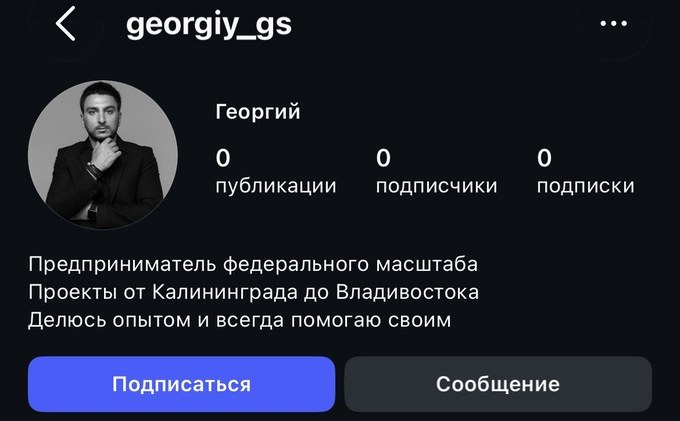
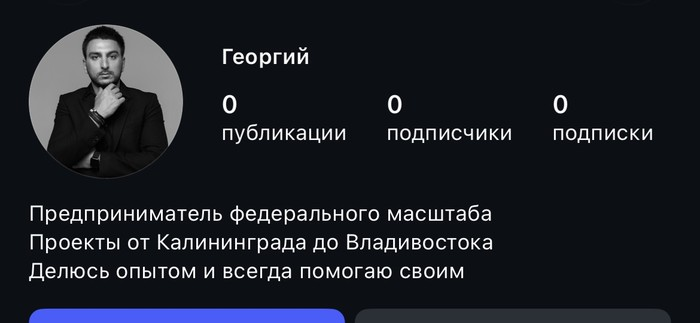
Лесенка роста: целые шапки профиля, 15 ступеней вместо 8

diff --git a/index.html b/index.html
@@ -87,11 +87,12 @@ section.deep{background:var(--deep)}
 .shots figcaption{color:var(--dim);font-size:12px;text-align:center;margin-top:auto;padding-top:10px;letter-spacing:.02em}
 
 /* ladder */
-.ladder{display:grid;grid-template-columns:repeat(4,1fr);gap:18px;margin-top:34px}
+.ladder{display:grid;grid-template-columns:repeat(3,1fr);gap:16px;margin-top:34px}
 .ladder figure{margin:0;background:var(--soft);border:1px solid var(--line);border-radius:16px;padding:14px;display:flex;flex-direction:column}
-.ladder img{width:100%;border-radius:10px;height:150px;object-fit:cover;object-position:top}
+.ladder img{width:100%;border-radius:10px;height:auto}
 .ladder figcaption{display:flex;justify-content:space-between;align-items:baseline;gap:10px;margin-top:auto;padding-top:12px;color:var(--dim);font-size:12px}
-.ladder figcaption b{font-family:'Cormorant Garamond',serif;font-weight:400;font-size:20px;color:var(--accent)}
+.ladder figcaption b{font-family:'Cormorant Garamond',serif;font-weight:400;font-size:22px;color:var(--accent)}
+.ladder figcaption span{letter-spacing:.06em;text-transform:uppercase;font-size:11px}
 
 /* chart */
 .chart{background:var(--soft);border:1px solid var(--line);border-radius:18px;padding:30px clamp(18px,3vw,34px);overflow-x:auto}
@@ -206,8 +207,8 @@ section.deep{background:var(--deep)}
   .hero{padding:78px 0 46px}
   .ab{grid-template-columns:1fr}
   .shots,.shots.two,.shots.four{grid-template-columns:1fr}
-  .ladder{grid-template-columns:repeat(2,1fr);gap:12px}
-  .ladder figure{padding:10px}
+  .ladder{grid-template-columns:1fr;gap:12px}
+  .ladder figure{padding:12px}
   h1{letter-spacing:.05em}
 }
 </style>
@@ -366,21 +367,28 @@ section.deep{background:var(--deep)}
       <text x="530" y="325" text-anchor="middle" fill="#9E988E" font-size="12" font-family="Mulish">26 авг</text>
       <text x="870" y="325" text-anchor="end" fill="#9E988E" font-size="12" font-family="Mulish">21 сен</text>
       <text x="90" y="350" text-anchor="middle" fill="#6A645B" font-size="12" font-family="Mulish">0</text>
-      <text x="276" y="350" text-anchor="middle" fill="#6A645B" font-size="12" font-family="Mulish">250</text>
+      <text x="276" y="350" text-anchor="middle" fill="#6A645B" font-size="12" font-family="Mulish">222</text>
       <text x="410" y="350" text-anchor="middle" fill="#6A645B" font-size="12" font-family="Mulish">1 002</text>
       <text x="530" y="350" text-anchor="middle" fill="#6A645B" font-size="12" font-family="Mulish">1 900</text>
       <text x="870" y="350" text-anchor="end" fill="#C9B79B" font-size="13" font-weight="600" font-family="Mulish">2 345</text>
     </svg>
   </div>
   <div class="ladder reveal">
-    <figure><img src="img/step-00.jpg" alt="0 подписчиков" loading="lazy"><figcaption><span>1 июля</span><b>0</b></figcaption></figure>
-    <figure><img src="img/step-96.jpg" alt="96 подписчиков" loading="lazy"><figcaption><span>11 июля</span><b>96</b></figcaption></figure>
-    <figure><img src="img/step-250.jpg" alt="250 подписчиков" loading="lazy"><figcaption><span>26 июля</span><b>250</b></figcaption></figure>
-    <figure><img src="img/step-444.jpg" alt="444 подписчика" loading="lazy"><figcaption><span>31 июля</span><b>444</b></figcaption></figure>
-    <figure><img src="img/step-777.jpg" alt="777 подписчиков" loading="lazy"><figcaption><span>6 августа</span><b>777</b></figcaption></figure>
-    <figure><img src="img/step-1002.jpg" alt="1 002 подписчика" loading="lazy"><figcaption><span>9 августа</span><b>1 002</b></figcaption></figure>
-    <figure><img src="img/step-1900.jpg" alt="1 900 подписчиков" loading="lazy"><figcaption><span>26 августа</span><b>1 900</b></figcaption></figure>
-    <figure><img src="img/step-2345.jpg" alt="2 345 подписчиков" loading="lazy"><figcaption><span>21 сентября</span><b>2 345</b></figcaption></figure>
+    <figure><img src="img/step-00.jpg" alt="Профиль: 0 подписчиков" loading="lazy"><figcaption><span>1 июля</span><b>0</b></figcaption></figure>
+    <figure><img src="img/step-222.jpg" alt="Профиль: 222 подписчиков" loading="lazy"><figcaption><span>26 июля</span><b>222</b></figcaption></figure>
+    <figure><img src="img/step-333.jpg" alt="Профиль: 333 подписчиков" loading="lazy"><figcaption><span>29 июля</span><b>333</b></figcaption></figure>
+    <figure><img src="img/step-444.jpg" alt="Профиль: 444 подписчиков" loading="lazy"><figcaption><span>31 июля</span><b>444</b></figcaption></figure>
+    <figure><img src="img/step-500.jpg" alt="Профиль: 500 подписчиков" loading="lazy"><figcaption><span>2 августа</span><b>500</b></figcaption></figure>
+    <figure><img src="img/step-600.jpg" alt="Профиль: 600 подписчиков" loading="lazy"><figcaption><span>5 августа</span><b>600</b></figcaption></figure>
+    <figure><img src="img/step-700.jpg" alt="Профиль: 700 подписчиков" loading="lazy"><figcaption><span>5 августа</span><b>700</b></figcaption></figure>
+    <figure><img src="img/step-777.jpg" alt="Профиль: 777 подписчиков" loading="lazy"><figcaption><span>6 августа</span><b>777</b></figcaption></figure>
+    <figure><img src="img/step-878.jpg" alt="Профиль: 878 подписчиков" loading="lazy"><figcaption><span>8 августа</span><b>878</b></figcaption></figure>
+    <figure><img src="img/step-951.jpg" alt="Профиль: 951 подписчиков" loading="lazy"><figcaption><span>9 августа</span><b>951</b></figcaption></figure>
+    <figure><img src="img/step-1002.jpg" alt="Профиль: 1 002 подписчиков" loading="lazy"><figcaption><span>9 августа</span><b>1 002</b></figcaption></figure>
+    <figure><img src="img/step-1900.jpg" alt="Профиль: 1 900 подписчиков" loading="lazy"><figcaption><span>26 августа</span><b>1 900</b></figcaption></figure>
+    <figure><img src="img/step-2003.jpg" alt="Профиль: 2 003 подписчиков" loading="lazy"><figcaption><span>27 августа</span><b>2 003</b></figcaption></figure>
+    <figure><img src="img/step-2300.jpg" alt="Профиль: 2 300 подписчиков" loading="lazy"><figcaption><span>17 сентября</span><b>2 300</b></figcaption></figure>
+    <figure><img src="img/step-2345.jpg" alt="Профиль: 2 345 подписчиков" loading="lazy"><figcaption><span>21 сентября</span><b>2 345</b></figcaption></figure>
   </div>
 </section>
 
